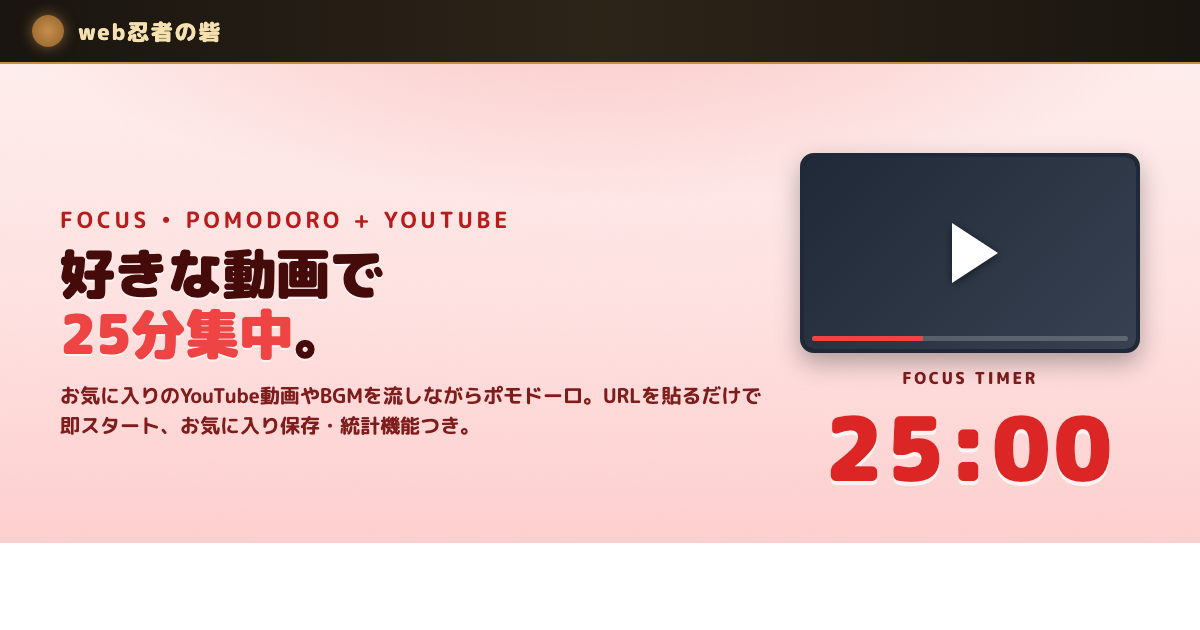
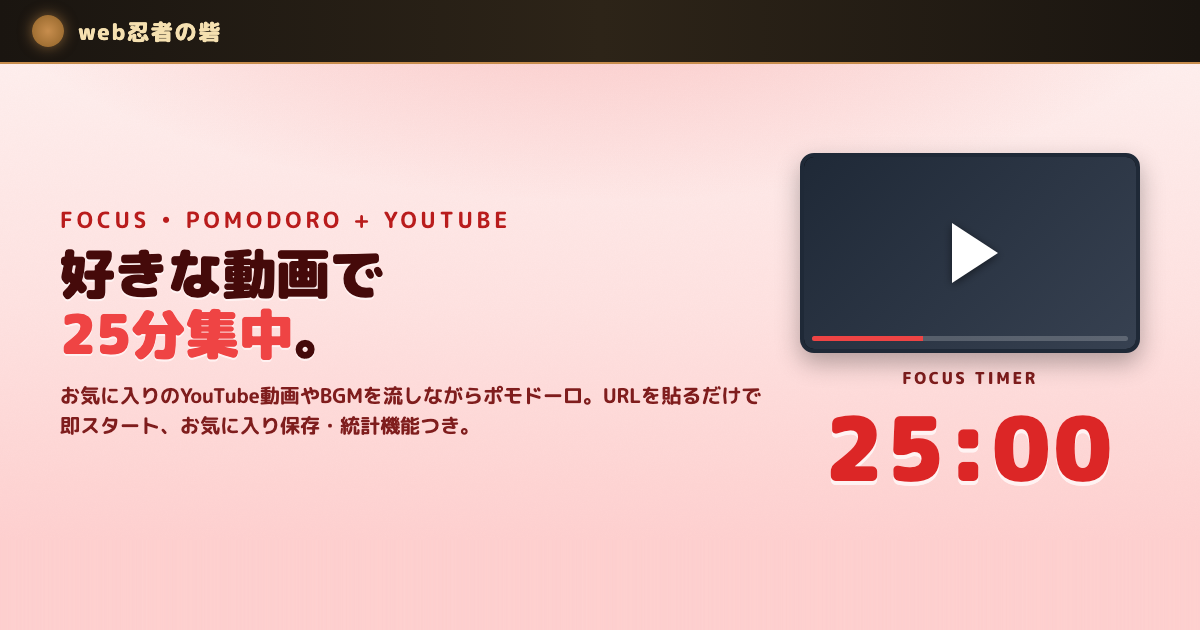
シェア画像の下の白い帯をなくす
元にしたHTMLは ~/test/_scripts/ogp_src/（統括側）。

Changed region(s): [[0.0, 0.8444, 1.0, 1.0]]

diff --git a/index.html b/index.html
@@ -13,11 +13,11 @@
 <meta property="og:type" content="website">
 <meta property="og:url" content="https://pomodoro.kkpwebninja.com/">
 <meta property="og:site_name" content="ポモドーロタイマー">
-<meta property="og:image" content="https://pomodoro.kkpwebninja.com/ogp.png?v=1">
+<meta property="og:image" content="https://pomodoro.kkpwebninja.com/ogp.png?v=20260924">
 <meta property="og:image:width" content="1200">
 <meta property="og:image:height" content="630">
 <meta name="twitter:card" content="summary_large_image">
-<meta name="twitter:image" content="https://pomodoro.kkpwebninja.com/ogp.png?v=1">
+<meta name="twitter:image" content="https://pomodoro.kkpwebninja.com/ogp.png?v=20260924">
 
 <script type="application/ld+json">
 {
